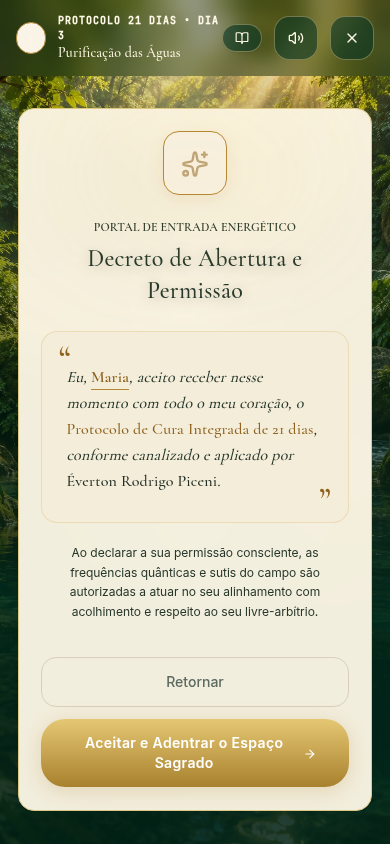
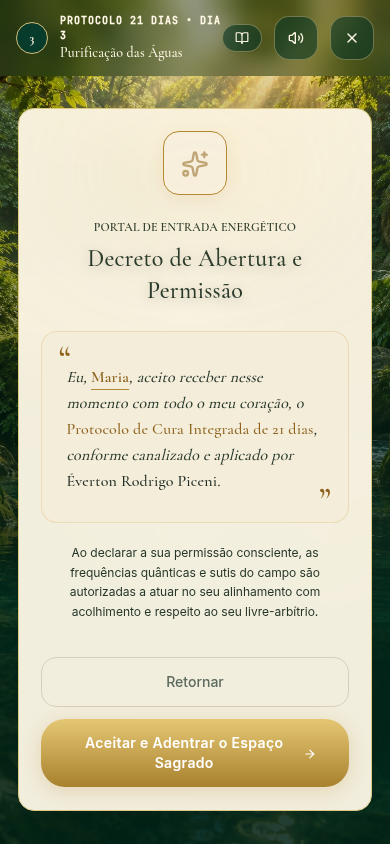
Refine Natural Sereno forest scenes, ornamentation and player hierarchy

diff --git a/src/natural-sereno.css b/src/natural-sereno.css
@@ -375,3 +375,124 @@
 /* The legacy footer owns z-20. Keep it below the fixed app navigation on short
    internal screens, where it starts before the bottom of the viewport. */
 :root[data-layout="natural-sereno"] #main-footer { z-index: 0; }
+
+/* Approved forest scenes: the splash, arrival and player have distinct art. */
+:root[data-layout="natural-sereno"] #auth-loading-view {
+  position: relative;
+  justify-content: flex-start;
+  padding: 54px 24px 28px;
+  background: url('/brand/natural-sereno/presenca.webp') center / cover no-repeat #063020 !important;
+  font-family: 'Lora', Georgia, serif;
+}
+:root[data-layout="natural-sereno"] #auth-loading-view > div:first-child { width: 74px; height: 74px; margin-bottom: 8px; }
+:root[data-layout="natural-sereno"] #auth-loading-view > p:first-of-type { max-width: 290px; font-size: 10px; letter-spacing: .1em; }
+:root[data-layout="natural-sereno"] #auth-loading-view > h2 { font-size: 22px; }
+:root[data-layout="natural-sereno"] #auth-loading-view > p:last-of-type { display: none; }
+:root[data-layout="natural-sereno"] #auth-loading-view .ns-loading-details {
+  display: flex;
+  flex-direction: column;
+  align-items: center;
+  margin-top: auto;
+  width: min(100%, 350px);
+  opacity: 1;
+}
+:root[data-layout="natural-sereno"] .ns-loading-details > p {
+  margin-bottom: 30px;
+  font-size: 25px;
+  line-height: 1.35;
+  font-family: 'Cormorant Garamond', Georgia, serif;
+  text-transform: uppercase;
+}
+:root[data-layout="natural-sereno"] .ns-loading-track {
+  display: block;
+  width: 100%;
+  height: 10px;
+  border-radius: 8px;
+  background: rgba(249, 241, 209, .25);
+  overflow: hidden;
+}
+:root[data-layout="natural-sereno"] .ns-loading-track > span {
+  display: block;
+  width: 65%;
+  height: 100%;
+  background: #e6c66e;
+  border-radius: inherit;
+  animation: ns-loading 1.8s ease-in-out infinite alternate;
+}
+:root[data-layout="natural-sereno"] .ns-loading-details small { font-size: 12px; color: #fff8e6; margin-top: 14px; line-height: 1.5; }
+@keyframes ns-loading { from { transform: translateX(-65%); } to { transform: translateX(90%); } }
+:root[data-layout="natural-sereno"] .ns-welcome {
+  background: url('/brand/natural-sereno/acolhimento.webp') center / cover no-repeat #063020;
+  padding: 44px 24px 30px;
+}
+:root[data-layout="natural-sereno"] .ns-welcome::before { background: rgba(2, 31, 19, .15); }
+:root[data-layout="natural-sereno"] .ns-welcome-content { display: flex; flex-direction: column; align-items: center; min-height: calc(100dvh - 74px); }
+:root[data-layout="natural-sereno"] .ns-welcome-brand { width: 64px; height: 64px; object-fit: contain; opacity: .6; margin-bottom: 70px; }
+:root[data-layout="natural-sereno"] .ns-welcome h1 { font-size: 39px; }
+:root[data-layout="natural-sereno"] .ns-welcome-content > p:first-of-type { max-width: 320px; margin: 18px 0 35px; }
+:root[data-layout="natural-sereno"] .ns-welcome-audio { position: relative; width: 100%; padding: 25px 0; }
+:root[data-layout="natural-sereno"] .ns-welcome-audio .ns-audio-lines { position: absolute; inset: 0; width: 100%; height: 100%; margin: 0; opacity: .45; }
+:root[data-layout="natural-sereno"] .ns-welcome-play { position: relative; width: 120px; height: 120px; }
+:root[data-layout="natural-sereno"] .ns-welcome .ns-welcome-status { margin: 12px 0 36px; }
+:root[data-layout="natural-sereno"] .ns-welcome .ns-gold { margin-top: auto; width: 100%; }
+:root[data-layout="natural-sereno"] .ns-welcome .ns-signature { font-size: 23px; margin: 20px 0 0; }
+:root[data-layout="natural-sereno"] .ns-app:not([data-ns-screen="home"]):not([data-ns-screen="welcome"]):not([data-ns-screen="community"])::after {
+  content: '';
+  position: absolute;
+  inset: 0;
+  pointer-events: none;
+  z-index: 0;
+  background: url('/brand/natural-sereno/folhagem.webp') center top / 100% auto no-repeat;
+}
+:root[data-layout="natural-sereno"] .ns-app > :is(header, section) { position: relative; z-index: 1; }
+:root[data-layout="natural-sereno"] .ns-page-heading { background: transparent; }
+:root[data-layout="natural-sereno"] .ns-app:not([data-ns-screen="home"]):not([data-ns-screen="welcome"]):not([data-ns-screen="community"]) { background: var(--ns-cream); }
+:root[data-layout="natural-sereno"] .ns-result { padding-top: 0; }
+:root[data-layout="natural-sereno"] .ns-result-item { align-items: center; padding: 10px; }
+:root[data-layout="natural-sereno"] .ns-result-item > div { flex: 1; min-width: 0; }
+:root[data-layout="natural-sereno"] .ns-result-symbol { display: grid; place-items: center; flex-shrink: 0; width: 46px; height: 46px; border: 1px solid #d3bd82; border-radius: 50%; background: #fbf2d7; }
+:root[data-layout="natural-sereno"] .ns-result-symbol svg { margin: 0; color: #98752c; }
+:root[data-layout="natural-sereno"] .ns-result-item:nth-of-type(3) .ns-result-symbol { color: #297241; background: #edf1d8; }
+:root[data-layout="natural-sereno"] .ns-result-item small { font-size: 12px; }
+:root[data-layout="natural-sereno"] .ns-result-item strong { font-size: 15px; line-height: 1.4; }
+:root[data-layout="natural-sereno"] .ns-dock svg { width: 25px; height: 25px; stroke-width: 1.8; }
+@media (max-height: 720px) {
+  :root[data-layout="natural-sereno"] .ns-welcome-brand { margin-bottom: 25px; }
+  :root[data-layout="natural-sereno"] .ns-welcome-content > p:first-of-type { margin-bottom: 15px; }
+  :root[data-layout="natural-sereno"] .ns-welcome-audio { padding: 12px 0; }
+}
+@media (prefers-reduced-motion: reduce) {
+  :root[data-layout="natural-sereno"] .ns-loading-track > span { animation: none; }
+}
+:root[data-layout="natural-sereno"] #meditation-session .ns-session-title { display: block; margin-bottom: 20px; }
+:root[data-layout="natural-sereno"] #meditation-session .ns-session-title > p { font: 27px/1.2 'Cormorant Garamond', Georgia, serif; margin-bottom: 3px; }
+:root[data-layout="natural-sereno"] #meditation-session .ns-session-title > h2 { font-size: 34px !important; font-family: 'Cormorant Garamond', Georgia, serif; }
+:root[data-layout="natural-sereno"] #meditation-session > main > div > h2 { font-size: 20px !important; margin-bottom: 4px; }
+:root[data-layout="natural-sereno"] #meditation-session > main > div > p { margin-bottom: 8px; }
+:root[data-layout="natural-sereno"] #meditation-session > main > div > .inline-flex { font-size: 10px; margin-bottom: 10px; }
+:root[data-layout="natural-sereno"] #meditation-session > main .relative.w-44.h-44 { width: 80px !important; height: 80px !important; }
+:root[data-layout="natural-sereno"] #meditation-session > main { padding-top: 170px; min-height: 390px; }
+:root[data-layout="natural-sereno"] #meditation-session > header > div:first-child > div:first-child { background: #073b2b !important; border-color: #d6be76 !important; flex-shrink: 0; }
+:root[data-layout="natural-sereno"] #meditation-session > main .relative.w-44.h-44 span { font-size: 9px; }
+:root[data-layout="natural-sereno"] .ns-app[data-ns-screen="menu"] .ns-signature { padding-right: 20px; font-size: 23px; }
+:root[data-layout="natural-sereno"] .ns-welcome-brand,
+:root[data-layout="natural-sereno"] #auth-loading-view > div:first-child img { mix-blend-mode: multiply; }
+:root[data-layout="natural-sereno"] .ns-app:not([data-ns-screen="home"]):not([data-ns-screen="welcome"]):not([data-ns-screen="community"]) { background: var(--ns-valley) center / cover no-repeat var(--ns-cream); }
+:root[data-layout="natural-sereno"] .ns-app:not([data-ns-screen="home"]):not([data-ns-screen="welcome"]):not([data-ns-screen="community"])::before { background: rgba(255, 250, 231, .94); }
+:root[data-layout="natural-sereno"] .ns-profile .ns-row { min-height: 68px; margin-bottom: 6px; }
+:root[data-layout="natural-sereno"] .ns-profile .ns-row-icon { width: 38px; height: 38px; border-radius: 0; background: transparent; box-shadow: none; color: #6c735b; }
+:root[data-layout="natural-sereno"] .ns-profile-identity > svg { width: 62px; height: 62px; border: 1px solid var(--ns-line); border-radius: 50%; padding: 12px; background: var(--ns-paper); }
+:root[data-layout="natural-sereno"] #auth-loading-view > div:first-child { opacity: 1; animation: none; }
+:root[data-layout="natural-sereno"] #auth-loading-view > div:first-child img { opacity: .6; }
+:root[data-layout="natural-sereno"] .ns-app:not([data-ns-screen="home"]):not([data-ns-screen="welcome"]):not([data-ns-screen="community"])::after { background-size: 100% 100dvh; }
+:root[data-layout="natural-sereno"] .ns-welcome-audio .ns-audio-wave { position: absolute; top: 50%; left: 0; width: 100%; height: auto; transform: translateY(-50%); pointer-events: none; }
+:root[data-layout="natural-sereno"] #auth-loading-view { background-size: auto calc(100dvh + 90px) !important; background-position: center bottom !important; padding-bottom: 55px; }
+:root[data-layout="natural-sereno"] #anamnesis-modal :is(p, label) { font-size: 15px; line-height: 1.6; }
+:root[data-layout="natural-sereno"] #anamnesis-modal h2 { font-size: 32px; }
+:root[data-layout="natural-sereno"] .ns-home-message p { font-weight: 600; }
+:root[data-layout="natural-sereno"] #meditation-session .ns-play-toggle { width: 88px; height: 88px; flex-shrink: 0; }
+:root[data-layout="natural-sereno"] #meditation-session .ns-play-toggle svg { width: 30px; height: 30px; }
+:root[data-layout="natural-sereno"] #meditation-session > footer > div > div:last-child > div { gap: 8px; }
+:root[data-layout="natural-sereno"] #meditation-session > footer button:is([title="Voltar 15 segundos"], [title="Avançar 15 segundos"]) { width: 48px; height: 48px; }
+:root[data-layout="natural-sereno"] #meditation-session > footer button:is([title="Voltar 15 segundos"], [title="Avançar 15 segundos"]) svg { width: 29px; height: 29px; }
+:root[data-layout="natural-sereno"] #meditation-session > main { padding-top: 140px; }

diff --git a/src/components/NaturalSerenoHome.tsx b/src/components/NaturalSerenoHome.tsx
@@ -2,12 +2,13 @@ import React, { useState } from 'react';
 import {
   ArrowLeft, Award, AudioLines, BookOpen, ChevronRight, Flower2,
   GraduationCap, Headphones, Heart, Home, Leaf, LogOut, Menu, MessageCircle,
-  Pause, Play, Sliders, Sparkles, Sun, UserRound, Users, Waves,
+  Pause, Play, Sliders, Sparkles, Sun, UserRound, Users, Waves, CalendarDays, Citrus,
 } from 'lucide-react';
 import type { LucideIcon } from 'lucide-react';
 import type { TransformationHomeProps } from './TransformationHome';
 import type { TreatmentRecommendation } from '../lib/anamnesisTreatmentEngine';
 import { DAILY_INSIGHTS } from '../types';
+import { APPROVED_LOGO_DATA_URI } from './ApprovedBrand';
 
 type View = 'home' | 'menu' | 'journey' | 'library' | 'tools' | 'profile' | 'result' | 'community';
 type Props = TransformationHomeProps & {
@@ -54,7 +55,7 @@ export default function NaturalSerenoHome(props: Props) {
   ];
   const library: (Row & { category: string; image: string })[] = [
     { title: 'Cursos e conteúdos', copy: 'Biblioteca de apoio', icon: GraduationCap, action: props.onOpenCourses, category: 'Cursos', image: '/brand/natural-sereno/reiki.webp' },
-    { title: 'Guia dos 7 Chakras', copy: 'Conheça seus centros de energia', icon: Sparkles, action: props.onOpenChakras, category: 'Práticas', image: '/brand/chakra-body.png' },
+    { title: 'Guia dos 7 Chakras', copy: 'Conheça seus centros de energia', icon: Sparkles, action: props.onOpenChakras, category: 'Práticas', image: '/brand/natural-sereno/presenca.webp' },
     { title: 'Banhos e Aromas', copy: 'Natureza como parte do cuidado', icon: Leaf, action: props.onOpenBaths, category: 'Práticas', image: '/brand/natural-sereno/aromas.webp' },
     { title: 'Ho’oponopono', copy: 'Outros caminhos da sua jornada', icon: Heart, action: props.onOpenHooponopono, category: 'Práticas', image: '/brand/natural-sereno/reiki.webp' },
     { title: 'Numerologia', copy: 'Ciclos, essência e caminhos', icon: Flower2, action: props.onOpenNumerology, category: 'Autoconhecimento', image: '/brand/natural-sereno/cachoeira.webp' },
@@ -72,12 +73,15 @@ export default function NaturalSerenoHome(props: Props) {
   if (!props.journeyEntered) {
     return <div className="ns-app ns-welcome" data-ns-screen="welcome">
       <div className="ns-welcome-content">
+        <img className="ns-welcome-brand" src={APPROVED_LOGO_DATA_URI} alt="Everton Piceni" />
         <h1>Um acolhimento para você</h1>
         <p>Ouça este momento de chegada antes de entrar no seu espaço de cuidado.</p>
-        <AudioLines className="ns-audio-lines" size={62} strokeWidth={1} aria-hidden="true" />
+        <div className="ns-welcome-audio">
+        <img className="ns-audio-wave" src="/brand/natural-sereno/onda-acolhimento.webp" alt="" />
         <button className="ns-welcome-play" onClick={props.onToggleWelcome} aria-label={props.isSpeaking ? 'Pausar acolhimento' : 'Ouvir acolhimento'}>
           {props.isSpeaking ? <Pause size={34} /> : <Play size={34} fill="currentColor" />}
         </button>
+        </div>
         <p className="ns-welcome-status" aria-live="polite">{props.isSpeaking ? 'Pausar acolhimento' : 'Ouvir acolhimento'}</p>
         <button className="ns-gold" onClick={props.onEnterJourney}>Entrar na minha jornada <ChevronRight size={19} /></button>
         <p className="ns-signature">Cuidar de si também é um ato de amor.</p>
@@ -132,7 +136,7 @@ export default function NaturalSerenoHome(props: Props) {
         const done = props.progress.some(item => item.dayNumber === entry.day && item.completed);
         return <button key={entry.day} className="ns-row ns-day" aria-label={`Abrir dia ${entry.day}: ${entry.title}`} onClick={() => props.onStartSession(entry.day)}>
           <span className="ns-day-number">{entry.day}</span>
-          <img src={`/brand/natural-sereno/${entry.day % 2 === 0 ? 'vale-amanhecer' : 'cachoeira'}.webp`} alt="" loading="lazy" />
+          <img src={`/brand/natural-sereno/${['presenca', 'vale-amanhecer', 'cachoeira', 'reiki', 'acolhimento'][(entry.day - 1) % 5]}.webp`} alt="" loading="lazy" />
           <span className="ns-row-copy"><strong>{entry.title}</strong><small>{done ? 'Concluído' : entry.day === props.currentDay ? 'Seu momento' : entry.focus}</small></span><ChevronRight size={17} />
         </button>;
       })}
@@ -172,7 +176,14 @@ export default function NaturalSerenoHome(props: Props) {
     {view === 'result' && recommendation && <section className="ns-list ns-result">
       <Flower2 size={43} strokeWidth={1} aria-hidden="true" />
       <p>{recommendation.summaryDiagnosis}</p>
-      {[['Frequência Solfeggio', recommendation.frequencyLabel], ['Chakra em foco', recommendation.primaryChakraFocus], ['Floral recomendado', recommendation.recommendedFloral || props.anamnesis?.recommendedFloral || 'Definido conforme sua anamnese'], ['Aromaterapia recomendada', recommendation.recommendedAromatherapy || props.anamnesis?.recommendedAromatherapy || 'Definida conforme sua anamnese'], ['Protocolo indicado', recommendation.treatmentTitle], ['Duração sugerida', `${recommendation.recommendedDurationDays} dias`]].map(([label, value]) => <div key={label} className="ns-result-item"><Leaf size={19} /><div><small>{label}</small><strong>{value}</strong></div></div>)}
+      {([
+        ['Frequência Solfeggio', recommendation.frequencyLabel, AudioLines],
+        ['Chakra em foco', recommendation.primaryChakraFocus, Sun],
+        ['Floral recomendado', recommendation.recommendedFloral || props.anamnesis?.recommendedFloral || 'Definido conforme sua anamnese', Flower2],
+        ['Aromaterapia recomendada', recommendation.recommendedAromatherapy || props.anamnesis?.recommendedAromatherapy || 'Definida conforme sua anamnese', Citrus],
+        ['Protocolo indicado', recommendation.treatmentTitle, BookOpen],
+        ['Duração sugerida', `${recommendation.recommendedDurationDays} dias`, CalendarDays],
+      ] as [string, string, LucideIcon][]).map(([label, value, Icon]) => <div key={label} className="ns-result-item"><span className="ns-result-symbol"><Icon size={25} strokeWidth={1.4} /></span><div><small>{label}</small><strong>{value}</strong></div></div>)}
       <button className="ns-gold" onClick={props.onSpeakResult}><Headphones size={19} />Ouvir meu resultado</button>
       <button className="ns-secondary" onClick={props.onOpenAnamnesis}>Ver ou refazer minha anamnese <ChevronRight size={18} /></button>
     </section>}

diff --git a/src/components/MeditationSession.tsx b/src/components/MeditationSession.tsx
@@ -351,6 +351,10 @@ export default function MeditationSession({
             transition={{ duration: 0.6 }}
             className="w-full flex flex-col items-center"
           >
+            <div className="ns-session-title hidden">
+              <p>Dia {dayNumber}</p>
+              <h2>{currentInsight.title || 'Alinhamento Energético'}</h2>
+            </div>
             {/* Stage Badge & Step Indicator */}
             <div className="inline-flex items-center gap-2 px-3.5 py-1 rounded-full border border-[#B88736]/30 bg-[#FAF4E8] text-xs font-serif text-[#8F631E] mb-6 shadow-xs font-medium">
               <span className="w-1.5 h-1.5 rounded-full bg-[#8F631E] animate-pulse" />

diff --git a/src/App.tsx b/src/App.tsx
@@ -743,6 +743,11 @@ export default function App() {
         <p className="text-xs text-[#5C5248] max-w-xs leading-relaxed">
           Preparando seu espaço de presença e acolhimento...
         </p>
+        <div className="ns-loading-details hidden" role="status">
+          <p>Cuidar de si também<br />é um ato de amor.</p>
+          <span className="ns-loading-track" aria-hidden="true"><span /></span>
+          <small>Preparando seu espaço de presença e acolhimento...</small>
+        </div>
       </div>
     );
   }

diff --git a/design-qa.md b/design-qa.md
@@ -8,7 +8,7 @@ Implementação funcional validada; a equivalência visual integral com a pranch
 
 Referência congelada: painel aprovado `1001196520.jpg`, copiado para [reference.jpg](docs/visual-qa/natural-sereno/reference.jpg). Os outros três painéis não orientam esta implementação.
 
-[Comparação das 12 telas](docs/visual-qa/natural-sereno/comparison-board.jpg): referência à esquerda, aplicação à direita em cada par. Capturas Chromium em 390 × 844 CSS px, DPR 1. Os recortes da prancha foram redimensionados para essa área; a referência inclui dispositivos e tem resolução limitada. Comparações ampliadas: [Home](docs/visual-qa/natural-sereno/compare-home.png), [Menu](docs/visual-qa/natural-sereno/compare-menu.png), [Player](docs/visual-qa/natural-sereno/compare-player.png). Captura adicional do [Portal de Aceite](docs/visual-qa/natural-sereno/portal.png).
+[Comparação das 12 telas](docs/visual-qa/natural-sereno/comparison-board.jpg): referência à esquerda, aplicação à direita em cada par. Capturas Chromium em 390 × 844 CSS px, DPR 1. Os recortes da prancha foram redimensionados para essa área; a referência inclui dispositivos e tem resolução limitada. Comparações ampliadas: [Carregamento](docs/visual-qa/natural-sereno/compare-loading.png), [Boas-vindas](docs/visual-qa/natural-sereno/compare-welcome.png), [Resultado](docs/visual-qa/natural-sereno/compare-result.png), [Home](docs/visual-qa/natural-sereno/compare-home.png), [Menu](docs/visual-qa/natural-sereno/compare-menu.png), [Player](docs/visual-qa/natural-sereno/compare-player.png). Captura adicional do [Portal de Aceite](docs/visual-qa/natural-sereno/portal.png).
 
 ## Superfícies auditadas
 
@@ -20,7 +20,7 @@ Referência congelada: painel aprovado `1001196520.jpg`, copiado para [reference
 
 ## Diferenças pendentes e limites de escopo
 
-**P2 — imagens e composição:** splash/boas-vindas, miniaturas, paisagens e ornamentos ainda diferem da referência. A cena de carregamento usa cachoeira em vez da figura meditativa da prancha. O resultado usa símbolos repetidos em vez dos ícones específicos da referência. Essas diferenças impedem afirmar que as 12 telas estão iguais.
+**P2 — transposição visual restante:** a prancha usa retratos/cenas distintos por dia e categoria; o app usa cinco cenas alternadas na lista e reaproveita algumas imagens na biblioteca. Para maior fidelidade, produzir miniaturas individuais adequadas aos títulos reais, seguindo exclusivamente o Estilo 1. A figura do carregamento já foi reposicionada, mas a iluminação e o recorte ainda não coincidem com a prancha. O player mantém etapas/respiração e navegação extras exigidos pelo funcionamento existente: continuar ajustando a composição ao redor desses controles, preservando-os. Essas diferenças impedem afirmar que as 12 telas estão iguais.
 
 **Conteúdo e comportamento preservados:** a anamnese existente tem quatro etapas, enquanto a prancha representa vinte perguntas. Jornada, ferramentas, biblioteca e resultado usam os destinos, textos e recomendações existentes. O player conserva os controles e etapas reais. Não foram inventados cursos, downloads, favoritos, fotos de perfil nem dados pessoais para preencher o modelo. A referência do player mostra dia 1; a captura funcional verifica a seleção real do dia 3.
 
@@ -32,8 +32,26 @@ Referência congelada: painel aprovado `1001196520.jpg`, copiado para [reference
 
 `npm run lint`, `npm test` (5 testes) e `npm run build` aprovados. O build mantém avisos de tamanho de bundle e importação estática/dinâmica do mesmo modal.
 
-[verification.json](docs/visual-qa/natural-sereno/verification.json) registra dez verificações aprovadas, sem erros de console: cliques reais, busca e vazio, progresso, aceite/check-in/player/roteiro, isolamento dos temas, login, entrada persistida e ausência de overflow em 320, 390, 768 e 1440 px. Reprodução: `node scripts/verify-natural-sereno.mjs`, com Vite disponível em `http://127.0.0.1:4173` e Chromium instalado.
+[verification.json](docs/visual-qa/natural-sereno/verification.json) registra doze verificações aprovadas, sem erros de console: cliques reais, busca e vazio, progresso, aceite/check-in/player/roteiro, isolamento dos temas, login, entrada persistida e ausência de overflow em 320, 390, 768 e 1440 px. Reprodução: `node scripts/verify-natural-sereno.mjs`, com Vite disponível em `http://127.0.0.1:4173` e Chromium instalado.
 
 Durante a validação foram corrigidos: índice de dia deslocado; tradução de etapa tratada como objeto em vez de texto; nomes de callbacks incompatíveis com o player; roteiro existente não exibido; círculo sem coordenada inicial; rodapé sobrepondo cliques da barra inferior. Nenhuma API, pagamento, regra de recomendação ou definição de jornada foi alterada.
 
 O navegador intercepta as APIs com fixtures e simula a fala para inspecionar a etapa. Isso não valida serviços externos de áudio, dados de produção nem pagamento. O sucesso técnico não equivale à aprovação da fidelidade visual.
+
+## Continuação — segunda produção do Estilo 1
+
+A nova comparação substitui as capturas anteriores no mesmo diretório, mantendo o painel aprovado intacto. Foram corrigidas diferenças registradas na primeira auditoria:
+
+- Carregamento: cena própria de meditação na floresta com chakras, mensagem aprovada e indicação indeterminada de carregamento. Não usa mais a cachoeira do player. Logo oficial original mantido pequeno, com tratamento de mistura para reduzir o fundo claro. As adições permanecem ocultas nos outros layouts.
+- Boas-vindas: floresta própria sem cachoeira, luz dourada, CTA na base e controle de áudio central ampliado com onda dourada raster transparente, própria desse layout. Mesmos callbacks de voz e entrada persistida.
+- Telas claras: folhagens raster transparentes nos cantos e papel marfim com paisagem suave ao fundo. A primeira versão dos ramos invadia o centro da lista; o asset foi regenerado com centro livre e cantos compactos.
+- Resultado: símbolos distintos de frequência, chakra, floral, aroma, protocolo e duração; textos e motor de recomendação permanecem intactos.
+- Player: dia/título da prática ganham destaque; etapa, respiração, mantra, roteiro, navegação entre etapas e controle de áudio continuam disponíveis. Corrigido contraste do número no cabeçalho. Reprodução e saltos de 15 segundos foram ampliados; a verificação adicional confirma que o controle principal permanece visível em 320, 390, 768 e 1440 px, sem overflow.
+- Perfil: avatar simbólico discreto e linhas mais próximas da densidade do painel, usando os mesmos dados e destinos.
+- Biblioteca: miniatura legível para chakras, restrita ao conjunto de imagens do Natural Sereno. QA agora verifica também que todas as miniaturas carregam. A Jornada alterna cinco cenas do próprio tema, em vez de duas.
+
+Validação desta continuação: lint, os cinco testes, build e doze verificações de navegador aprovados, sem erros de console. Os limites da simulação de APIs e fala permanecem os mesmos. Nenhuma mudança nova foi feita na Reintegração, pagamentos, APIs ou outros três estilos.
+
+O resultado visual continua `blocked`: esta é uma continuação revisável na PR #24, sem declarar a transposição integral concluída e sem iniciar o Estilo 2.
+
+A última comparação focada conferiu carregamento, onda de boas-vindas e player ampliado lado a lado com a referência. A Home foi recapturada depois do ajuste de peso da citação. Anamnese recebeu corpo de 15 px e título de 32 px, com as mesmas quatro etapas existentes.
